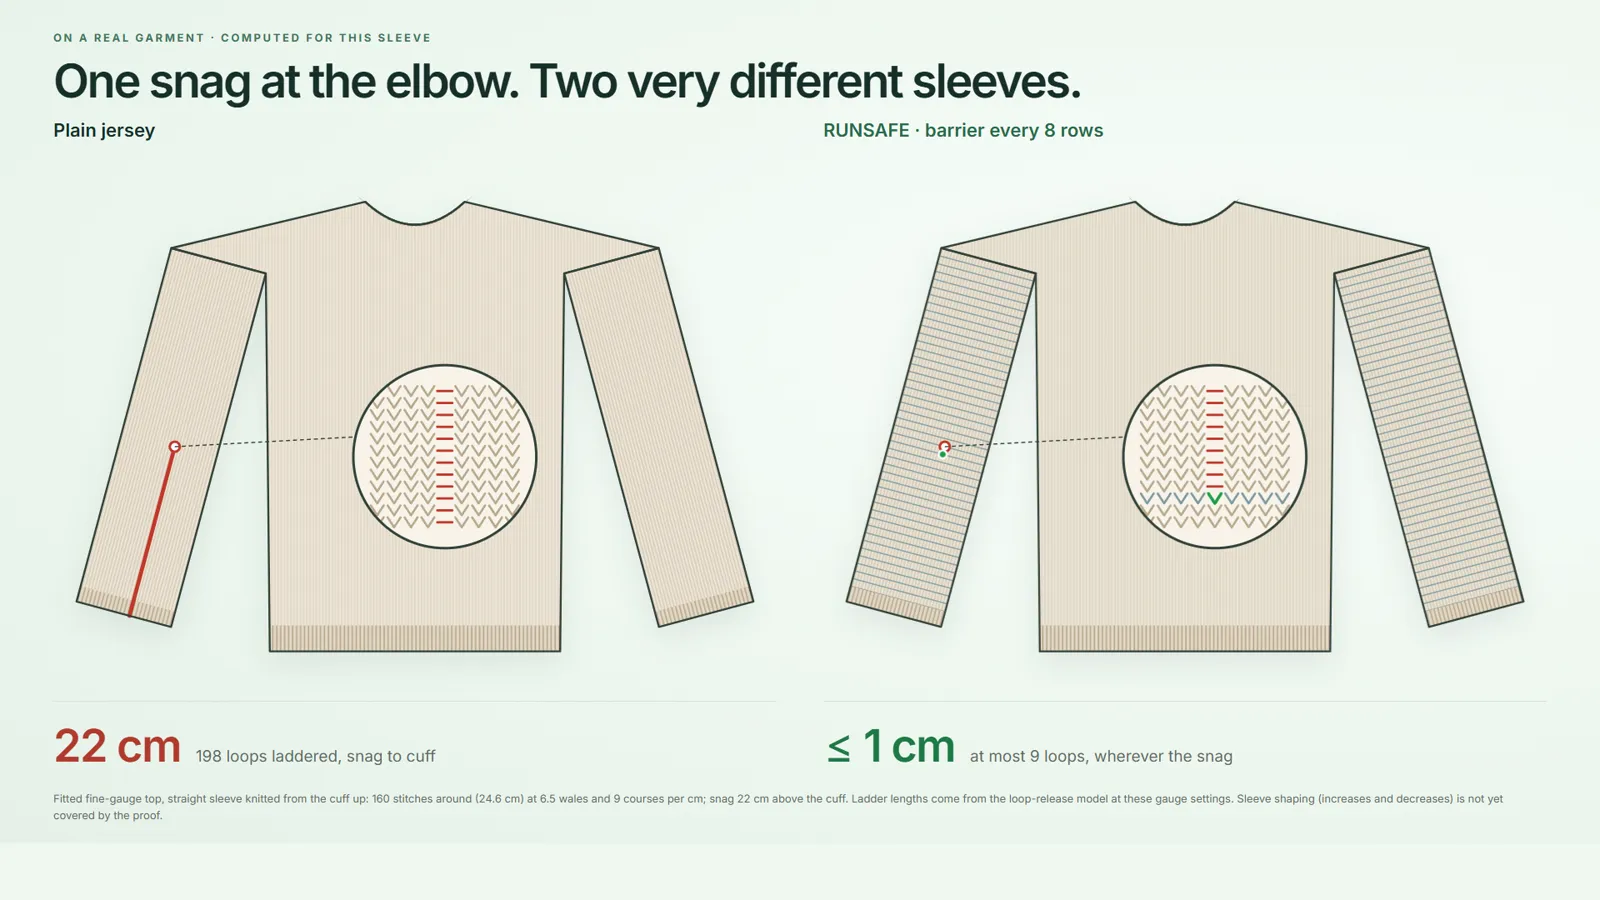
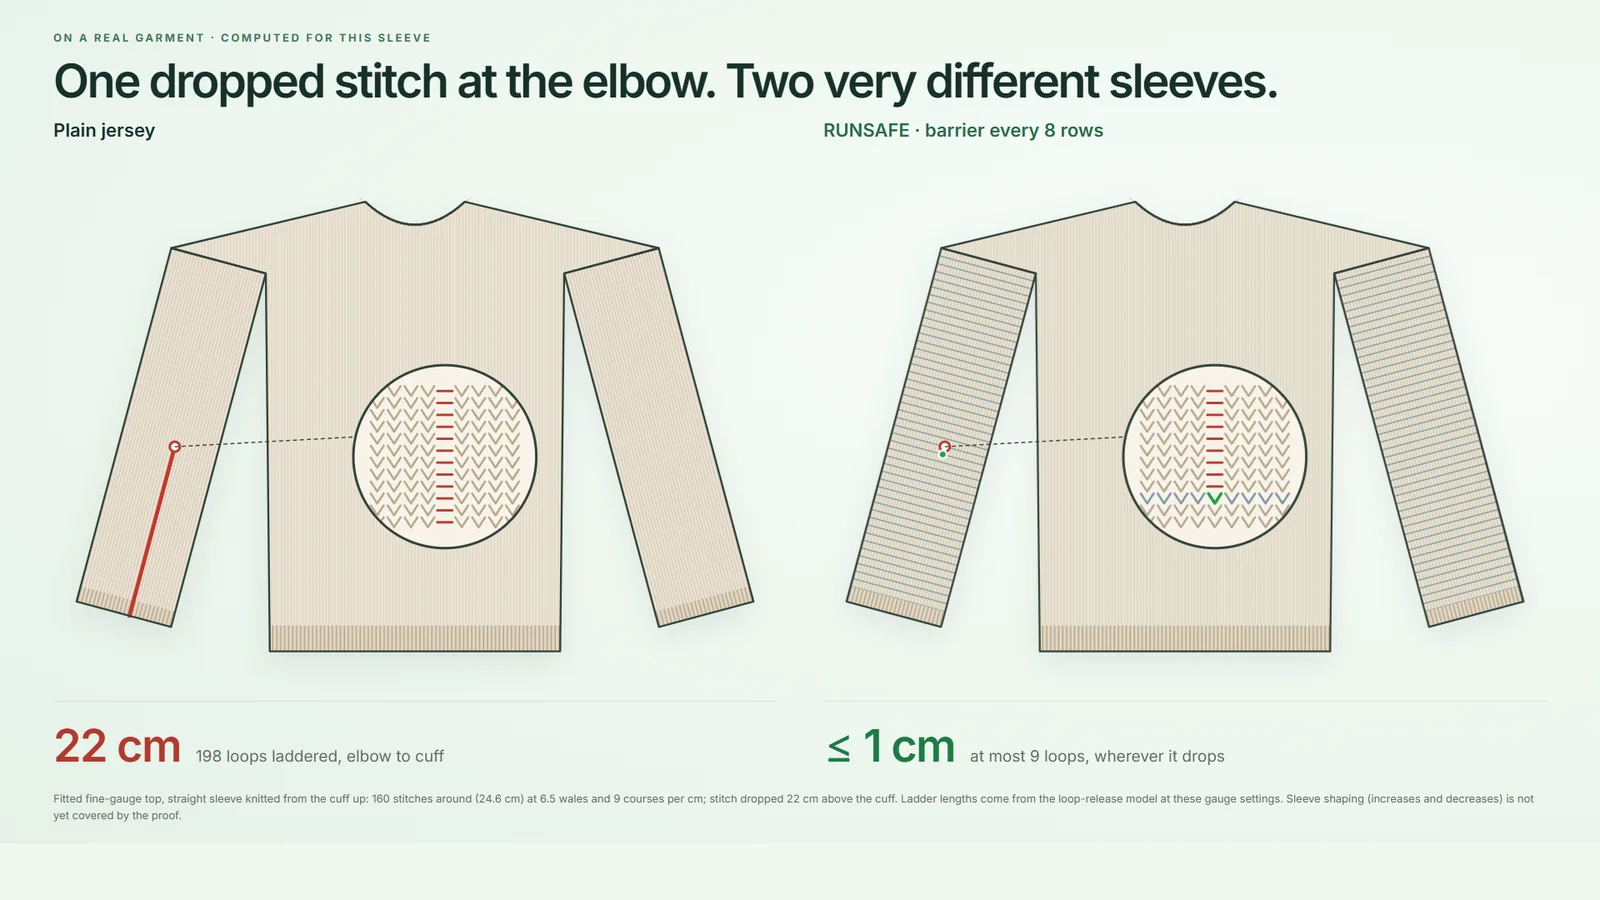
Dropped-stitch wording, sleeve sections, replacement rate, repo link

diff --git a/index.html b/index.html
@@ -4,7 +4,7 @@
 <meta charset="utf-8">
 <meta name="viewport" content="width=device-width, initial-scale=1">
 <title>RUNSAFE · A proved damage rating for knitwear</title>
-<meta name="description" content="RUNSAFE is design software that applies mathematical proof to knitting. It gives knitwear a damage rating: how far one snag can run, proved, compiled into the machine program and checkable by anyone.">
+<meta name="description" content="RUNSAFE is design software that applies mathematical proof to knitting. It gives knitwear a damage rating: how far one dropped stitch can run, proved, compiled into the machine program and checkable by anyone.">
 <meta property="og:title" content="RUNSAFE · A proved damage rating for knitwear">
 <meta property="og:description" content="Your phone has a water rating. Your sunscreen has an SPF. Your sweater has nothing. RUNSAFE gives knitwear a damage rating anyone can check.">
 <meta property="og:image" content="assets/img/poster.jpg">
@@ -61,7 +61,7 @@
 
     <!-- HOME -->
     <section id="home" class="scene hero" data-title="A sweater has no damage rating">
-      <p class="eyebrow">What does one snag cost?</p>
+      <p class="eyebrow">What does one dropped stitch cost?</p>
       <h1>Your phone has a water rating.<br>Your sunscreen has an SPF.<br>Your sweater has nothing.</h1>
       <div class="rating-row">
         <div class="rating-card">
@@ -79,7 +79,7 @@
         </div>
       </div>
       <div class="hero-lead">
-        <p class="lead"><b>RUNSAFE is design software that applies mathematical proof to knitting.</b> It gives knitwear a damage rating, how far one snag can run, so small faults stay repairable and garments stay in use.</p>
+        <p class="lead"><b>RUNSAFE is design software that applies mathematical proof to knitting.</b> It gives knitwear a damage rating, how far one dropped stitch can run, so small faults stay repairable and garments stay in use.</p>
         <div class="cta-row">
           <a class="btn primary big" href="#demo"><svg viewBox="0 0 24 24"><path d="M8 5v14l11-7z" fill="currentColor" stroke="none"/></svg>Watch the 4:45 demo</a>
           <a class="btn outline big" href="#rate">Try design from a rating</a>
@@ -87,10 +87,10 @@
       </div>
       <figure class="window">
         <div class="window-bar"><i></i><i></i><i></i><span>RUNSAFE Studio · the same dropped loop in two compiled sleeves</span></div>
-        <img src="assets/img/hook.webp" alt="Two 3D sleeves in RUNSAFE Studio: in plain knitting one dropped loop unravels 116 loops; in the RUNSAFE sleeve it stops within 9 loops at a barrier course." width="1600" height="900" loading="eager">
+        <img src="assets/img/hook.webp" alt="Two 3D sleeves in RUNSAFE Studio: two 13 cm sections of the same 160-stitch sleeve: in plain knitting one dropped loop unravels all 116 loops of its column; in the RUNSAFE section it stops within 9 loops at a barrier course." width="1600" height="900" loading="eager">
       </figure>
       <div class="stat-band">
-        <div><strong><span class="red">116</span> → <span class="green">9</span></strong><span>loops released by one dropped stitch, plain sleeve against RUNSAFE sleeve</span></div>
+        <div><strong><span class="red">116</span> → <span class="green">9</span></strong><span>loops released by one dropped stitch, in two 13 cm sections of the same sleeve</span></div>
         <div><strong>1.31×</strong><span>machine passes against plain knitting, counted on the compiled program</span></div>
         <div><strong>33 digits</strong><span>ways up to nine stitches can drop from this sleeve, all covered by the proof</span></div>
         <div><strong>859,689</strong><span>exhaustive fault sets checked on the emitted programs, all within the bound</span></div>
@@ -118,8 +118,8 @@
     <section id="problem" class="scene split" data-title="The problem">
       <div>
         <p class="eyebrow">The problem</p>
-        <h2>One snag can ladder down a whole sleeve</h2>
-        <p class="body">In ordinary knitting each loop is held by the loop above it. Drop one, and the whole column can unravel. In fine knitwear and smooth yarns such as silk, fine cotton and polyamide, a snag at the elbow of a plain sleeve can ladder to the cuff, and an almost intact garment can end up thrown away.</p>
+        <h2>One dropped stitch can ladder down a whole sleeve</h2>
+        <p class="body">In ordinary knitting each loop is held by the loop above it. Drop one, and the whole column can unravel. In fine knitwear and smooth yarns such as silk, fine cotton and polyamide, a stitch dropped at the elbow of a plain sleeve can ladder to the cuff, and an almost intact garment can end up thrown away.</p>
         <p class="body">Run-stops exist, but they are validated on samples. Nobody states a worst case for a whole garment, and nobody can check one.</p>
         <div class="mini-stats">
           <div class="mini"><strong>≈ 37%</strong><span>of clothing-disposal reasons are intrinsic quality failures such as tears and holes <cite>Laitala &amp; Klepp, review of 17 studies</cite></span></div>
@@ -127,8 +127,8 @@
         </div>
       </div>
       <figure class="shot">
-        <img src="assets/img/garment.webp" alt="Technical flat of a fitted top: in plain jersey a snag at the elbow ladders 22 cm to the cuff; with barrier courses it stops within 1 cm." width="1600" height="900" loading="lazy">
-        <figcaption><b class="red">22 cm</b> plain jersey, snag to cuff · <b class="green">≤ 1 cm</b> with a barrier every 8 rows, at 9 courses/cm</figcaption>
+        <img src="assets/img/garment.webp" alt="Technical flat of a fitted top: in plain jersey a stitch dropped at the elbow ladders 22 cm to the cuff; with barrier courses it stops within 1 cm." width="1600" height="900" loading="lazy">
+        <figcaption><b class="red">22 cm</b> plain jersey, elbow to cuff · <b class="green">≤ 1 cm</b> with a barrier every 8 rows, at 9 courses/cm</figcaption>
       </figure>
     </section>
 
@@ -210,12 +210,12 @@
           <div class="card">
             <div class="card-head"><h3>The rating</h3><span class="hint">160-stitch seamless sleeve · 9 courses/cm</span></div>
             <div class="field">
-              <label for="r-one">One snag stops within <span class="val" id="v-one">1.0 cm</span></label>
+              <label for="r-one">One dropped stitch stops within <span class="val" id="v-one">1.0 cm</span></label>
               <input id="r-one" type="range" min="5" max="30" value="10">
               <span class="hint" id="h-one">9 loops at this gauge</span>
             </div>
             <div class="field">
-              <label for="r-nine">Nine snags release at most <span class="val" id="v-nine">450 loops</span></label>
+              <label for="r-nine">Nine dropped stitches release at most <span class="val" id="v-nine">450 loops</span></label>
               <input id="r-nine" type="range" min="15" max="120" value="45">
               <span class="hint">anywhere in the garment, worst case</span>
             </div>
@@ -237,15 +237,15 @@
           <div class="card-head"><h3>Every construction checked</h3><span class="hint" id="t-count"></span></div>
           <div class="table-scroll">
             <table class="data">
-              <thead><tr><th>Construction</th><th class="num">One snag</th><th class="num">Nine snags</th><th class="num">Carriage passes</th><th>Evidence</th><th>Meets the rating</th></tr></thead>
+              <thead><tr><th>Construction</th><th class="num">One dropped stitch</th><th class="num">Nine dropped</th><th class="num">Carriage passes</th><th>Evidence</th><th>Meets the rating</th></tr></thead>
               <tbody id="t-body"></tbody>
             </table>
           </div>
-          <p class="hint foot">Compiled designs show their verified worst cases and the passes counted on the emitted program. Other spacings use the proved bound of <a href="proofs.html#t1">Theorem 1</a> (s + 1 loops for one snag, 45·(s + 1) for nine) and the counted rule of six extra passes per barrier. Bounds hold in the declared loop-release model; physical trials are the next step.</p>
+          <p class="hint foot">Compiled designs show their verified worst cases and the passes counted on the emitted program. Other spacings use the proved bound of <a href="proofs.html#t1">Theorem 1</a> (s + 1 loops for one dropped stitch, 45·(s + 1) for nine) and the counted rule of six extra passes per barrier. Bounds hold in the declared loop-release model; physical trials are the next step.</p>
         </div>
       </div>
       <figure class="shot wide">
-        <img src="assets/img/export.webp" alt="A compiled design in RUNSAFE Studio: staggered barriers, 297 loops worst case for nine snags, 18,560 loops, 1.47× carriage passes, with its export menu listing the knitting program, machine program and Shima Seiki DAT file." width="1600" height="900" loading="lazy">
+        <img src="assets/img/export.webp" alt="A compiled design in RUNSAFE Studio: staggered barriers, 297 loops worst case for nine dropped stitches, 18,560 loops, 1.47× carriage passes, with its export menu listing the knitting program, machine program and Shima Seiki DAT file." width="1600" height="900" loading="lazy">
         <figcaption>The compiled design opens with its exports: datasheet, knitting program, opening program, Shima Seiki DAT file, damage profile and the complete package.</figcaption>
       </figure>
     </section>
@@ -290,14 +290,14 @@
         <article class="card horizon">
           <span class="kicker">Now · fine knitwear</span>
           <h3>Flat-bed knitwear in smooth yarns</h3>
-          <p>Sleeves, cuffs and fine tops, where ladders run easily. The Studio compiles and certifies these designs today.</p>
+          <p>Straight sleeves, cuffs and panels, where ladders run easily. The Studio compiles and certifies these designs today; shaped pieces come next.</p>
           <strong>≈ 37%</strong>
           <span class="hint">of clothing-disposal reasons are quality failures such as tears and holes · Laitala &amp; Klepp</span>
         </article>
         <article class="card horizon">
           <span class="kicker">Next · hosiery</span>
           <h3>Tights, the classic ladder</h3>
-          <p>Circular hosiery machines need their own barrier construction and compiler: a research target for the next stage.</p>
+          <p>Circular hosiery machines need their own barrier construction and compiler: research that starts in the first year.</p>
           <strong>130 M</strong>
           <span class="hint">pairs of tights sold a year in France; 72% of women say a pair lasts about six wears · HOP survey, reported May 2018</span>
         </article>
@@ -312,15 +312,15 @@
       <div class="impact card dark">
         <div class="impact-head">
           <span class="kicker light">The climate case · worked wool example</span>
-          <h3>Preventing 0.7% of discards repays the extra knitting</h3>
+          <h3>Preventing 1.3% of discards repays the extra knitting</h3>
         </div>
         <div class="impact-grid">
           <div><strong>+31%</strong><span>counted machine passes for the sleeve, against plain knitting of equal loop count</span></div>
           <div><strong>0.15 kg</strong><span>CO₂e added per garment, from knitting energy, in this worked example</span></div>
-          <div><strong>0.7%</strong><span>of discards prevented repays the added knitting footprint</span></div>
-          <div><strong>≈ 950 t</strong><span>CO₂e avoided per million garments a year, if ladders end 1 in 10 and barriers prevent half of those (scenario)</span></div>
+          <div><strong>1.3%</strong><span>of discards prevented repays the added knitting footprint, even if only half of the longer wear replaces a new purchase</span></div>
+          <div><strong>≈ 400 t</strong><span>CO₂e avoided per million garments a year, if ladders end 1 in 10, barriers prevent half of those, and half the longer wear replaces a purchase (scenario; 950 t if all of it does)</span></div>
         </div>
-        <p class="hint light">Worked example: 0.4 kg wool jumper, 21.93 kg CO₂e virgin baseline (Hester et al., <i>Textiles</i>, 2026), 2.39 kWh/kg knitting, 0.5 kg CO₂e/kWh. This is a scenario; the pilots will measure its inputs.</p>
+        <p class="hint light">Worked example: 0.4 kg wool jumper, 21.93 kg CO₂e virgin baseline (Hester et al., <i>Textiles</i>, 2026), 2.39 kWh/kg knitting, 0.5 kg CO₂e/kWh, replacement rate 50%. This is a scenario; the pilots will measure its inputs.</p>
       </div>
     </section>
 
@@ -337,9 +337,9 @@
               <tr><td>Worst case for <i>k</i> dropped loops, fewer than the width, at every circumference, down and up</td><td><span class="chip proved">Proved</span></td><td>Written theorems in a declared loop-release model; exhaustive computer checks on small tubes; attaining attacks replayed on tubes of 32, 72 and 160 stitches</td></tr>
               <tr><td>The bound survives compilation into the machine program</td><td><span class="chip proved">Proved</span></td><td>Proof covering the loops the compiler adds; independently implemented reader; Carnegie Mellon's knitout simulator accepts the programs</td></tr>
               <tr><td>1.31× carriage passes for a barrier every 8 rows</td><td><span class="chip counted">Counted</span></td><td>Passes counted on the emitted program for the 160-stitch sleeve</td></tr>
-              <tr><td>≤ 1 cm for one snag</td><td><span class="chip counted">From the gauge</span></td><td>9 loops at the Studio's fine-knit default of 9 courses per cm</td></tr>
+              <tr><td>≤ 1 cm for one dropped stitch</td><td><span class="chip counted">From the gauge</span></td><td>9 loops at the Studio's fine-knit default of 9 courses per cm</td></tr>
               <tr><td>Shima Seiki export</td><td><span class="chip counted">Works</span></td><td>Machine variants convert to Shima Seiki DAT files with an open converter</td></tr>
-              <tr><td>Climate benefit</td><td><span class="chip modelled">Modelled</span></td><td>Service-life model with sourced defaults; each input flagged for measurement</td></tr>
+              <tr><td>Climate benefit</td><td><span class="chip modelled">Modelled</span></td><td>Service-life model with sourced defaults and a stated replacement rate; each input flagged for measurement</td></tr>
               <tr><td>Ladder length after knitting, washing and wear; repair time and cost</td><td><span class="chip next">Next</span></td><td>Physical samples and wear trials with a knitting laboratory</td></tr>
             </tbody>
           </table>
@@ -380,7 +380,7 @@
           <p class="body">Marc trained in mathematics and economics in a French preparatory class, holds master's degrees in management and finance from Grenoble École de Management, and works as an IT auditor. In competitions: third of more than 850 teams in Google's MedGemma Impact Challenge, and a finalist at the European Patent Office CodeFest 2026.</p>
           <div class="cta-row">
             <a class="btn outline" href="https://www.linkedin.com/in/marc-donovici" rel="noopener">LinkedIn</a>
-            <a class="btn outline" href="https://github.com/Marc-Dvci" rel="noopener">GitHub</a>
+            <a class="btn outline" href="https://github.com/Marc-Dvci/runsafe" rel="noopener">GitHub</a>
           </div>
         </div>
       </div>
@@ -391,12 +391,13 @@
       <p class="eyebrow">Sources and scope</p>
       <ul>
         <li>719,129,210,529,640,888,003,430,838,628,432 is the sum of C(18,560, <i>k</i>) for <i>k</i> = 1 to 9: the ways to choose 1 to 9 of the sleeve's 18,560 loops.</li>
-        <li>116 / 9 loops, 405, 297 and 1.31× / 1.47× come from the compiled sample sleeves (160 stitches around). Other spacings in the rating table are predicted from Theorem 1 and the counted rule of six extra passes per barrier. Definitions, theorems and complete proofs: <a href="proofs.html">the proofs page</a>.</li>
+        <li>116 / 9 loops come from two compiled 13 cm sections of the sleeve (160 stitches around, 116 courses); 22 cm / 198 loops from the garment view at 9 courses per cm. 405, 297 and 1.31× / 1.47× come from the compiled sample sleeves. Other spacings in the rating table are predicted from Theorem 1 and the counted rule of six extra passes per barrier. Definitions, theorems and complete proofs: <a href="proofs.html">the proofs page</a>.</li>
         <li>859,689 exhaustive fault sets: the reverse-direction checks on the emitted tube programs, alongside exact replays of the worst-case attacks on tubes up to 320 stitches around.</li>
         <li>K. Laitala &amp; I. G. Klepp, review of clothing-disposal reasons across 17 studies (Consumption Research Norway, OsloMet, 2022): intrinsic quality ≈ 37% of reasons.</li>
         <li>HOP (Halte à l'Obsolescence Programmée) survey of more than 3,000 women, reported by Connexion France, 15 May 2018: more than 130 million pairs of tights sold a year in France; 72% say their tights last about six uses.</li>
         <li>European Commission press release IP/23/3635, July 2023: 5.2 million tonnes of clothing and footwear waste a year in the EU. Digital product passports: Regulation (EU) 2024/1781 (ESPR).</li>
         <li>Hester et al., <i>Textiles</i> 6(1):19, 2026: virgin wool jumper 21.93 kg CO₂e against 0.89 kg from unravelled yarn.</li>
+        <li>Sandin &amp; Peters, Environmental impact of textile reuse and recycling – A review, <i>Journal of Cleaner Production</i> 184 (2018) 353–365: the benefits of longer use depend on how much new production it replaces. The 50% replacement rate is a scenario value.</li>
         <li>All damage bounds hold in the declared loop-release model. Physical samples, wear tests and repair trials are the next step and have not been run.</li>
       </ul>
     </section>

diff --git a/app.js b/app.js
@@ -81,7 +81,7 @@
 
   /* ---------- design from a rating (Studio logic, 160-stitch sleeve) ---------- */
   // Compiled designs: verified worst cases and passes counted on the emitted programs.
-  // Predicted spacings: theorem L1 (s + 1 loops for one snag, 45(s + 1) for nine) and six extra passes per barrier, 13 blocks.
+  // Predicted spacings: theorem L1 (s + 1 loops for one dropped stitch, 45(s + 1) for nine) and six extra passes per barrier, 13 blocks.
   const PER_CM = 9, BLOCKS = 13;
   const predicted = (s) => ({ name: `Barrier every ${s} rows`, one: s + 1, nine: 45 * (s + 1), ratio: 1 + (6 * (BLOCKS - 1)) / (2 * BLOCKS * (s + 1) - 2), compiled: false });
   const CANDIDATES = [
@@ -115,10 +115,10 @@
       const chip = best.compiled ? '<span class="chip proved">Compiled · verified worst case</span>' : '<span class="chip">Predicted · compile to confirm</span>';
       ans.innerHTML = `<div class="card-head"><h3>RUNSAFE's answer</h3>${chip}</div>
         <div class="winner"></div>
-        <div class="badge">${shield}<div><b>Ladder rating ≤ ${cm(best.one)} cm</b><span>nine snags ≤ ${fmt(best.nine)} loops · proved in the loop-release model</span></div></div>
+        <div class="badge">${shield}<div><b>Ladder rating ≤ ${cm(best.one)} cm</b><span>nine dropped stitches ≤ ${fmt(best.nine)} loops · proved in the loop-release model</span></div></div>
         <div class="rate-stats">
-          <div><strong>${fmt(best.one)}</strong><span>loops, one snag</span></div>
-          <div><strong>${fmt(best.nine)}</strong><span>loops, nine snags</span></div>
+          <div><strong>${fmt(best.one)}</strong><span>loops, one dropped stitch</span></div>
+          <div><strong>${fmt(best.nine)}</strong><span>loops, nine dropped</span></div>
           <div><strong>+${fmt((best.ratio - 1) * 100)}%</strong><span>carriage passes</span></div>
         </div>
         ${best.seek != null ? `<a class="btn" href="#demo" data-jump="${best.seek}">See it compiled in the demo</a>` : ''}`;
@@ -137,7 +137,7 @@
       const k = check(c), ok = k.one && k.nine && k.cost;
       const tr = document.createElement('tr');
       tr.className = c === best ? 'best' : ok ? '' : 'fail';
-      const fails = [!k.one && 'one snag', !k.nine && 'nine snags', !k.cost && 'budget'].filter(Boolean).join(', ');
+      const fails = [!k.one && 'one dropped stitch', !k.nine && 'nine dropped', !k.cost && 'budget'].filter(Boolean).join(', ');
       tr.innerHTML = `<td></td>
         <td class="num ${k.one ? '' : 'bad'}">${fmt(c.one)} loops · ${cm(c.one)} cm</td>
         <td class="num ${k.nine ? '' : 'bad'}">${fmt(c.nine)}</td>

diff --git a/README.md b/README.md
@@ -1,6 +1,6 @@
 # RUNSAFE
 
-RUNSAFE is design software that applies mathematical proof to knitting. It gives knitwear a damage rating: how far one snag can run, proved, compiled into the knitting-machine program and checkable by anyone.
+RUNSAFE is design software that applies mathematical proof to knitting. It gives knitwear a damage rating: how far one dropped stitch can run, proved, compiled into the knitting-machine program and checkable by anyone.
 
 This repository holds the RUNSAFE website: a static page with the demo film and a working "Design from a rating" tool for the 160-stitch sample sleeve, and a proofs page with the definitions, theorems and complete proofs behind the rating.
 
